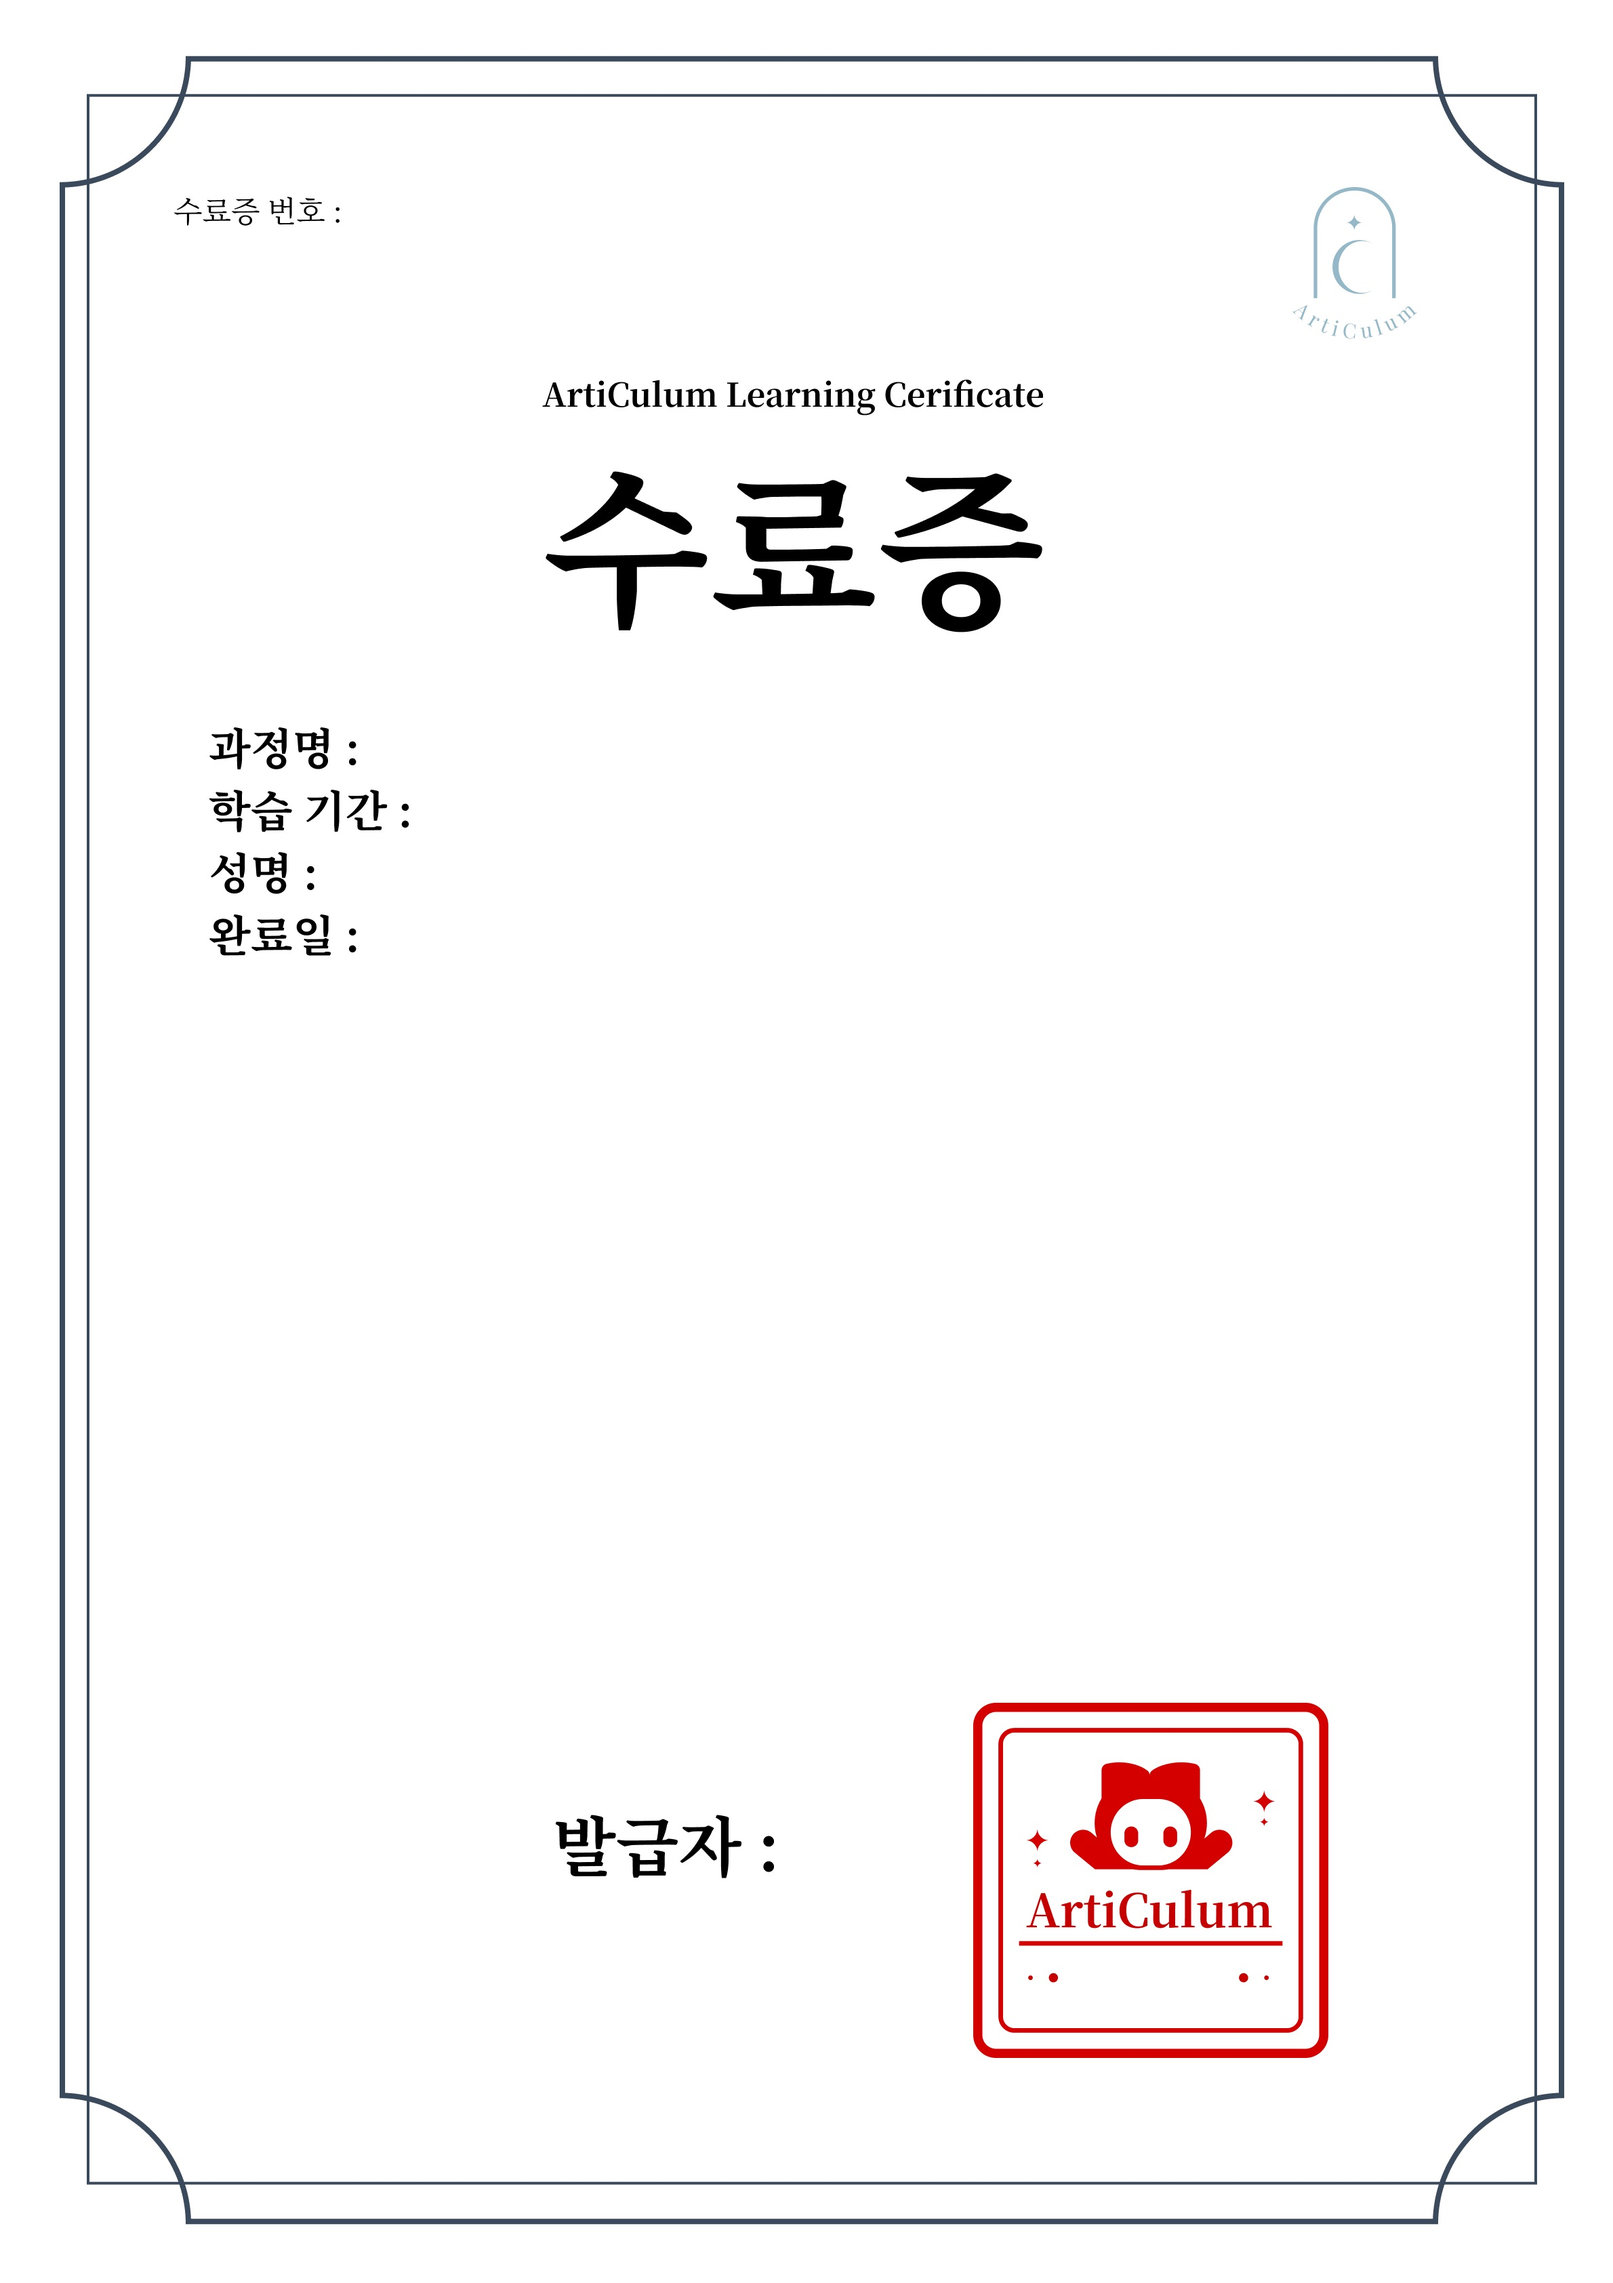
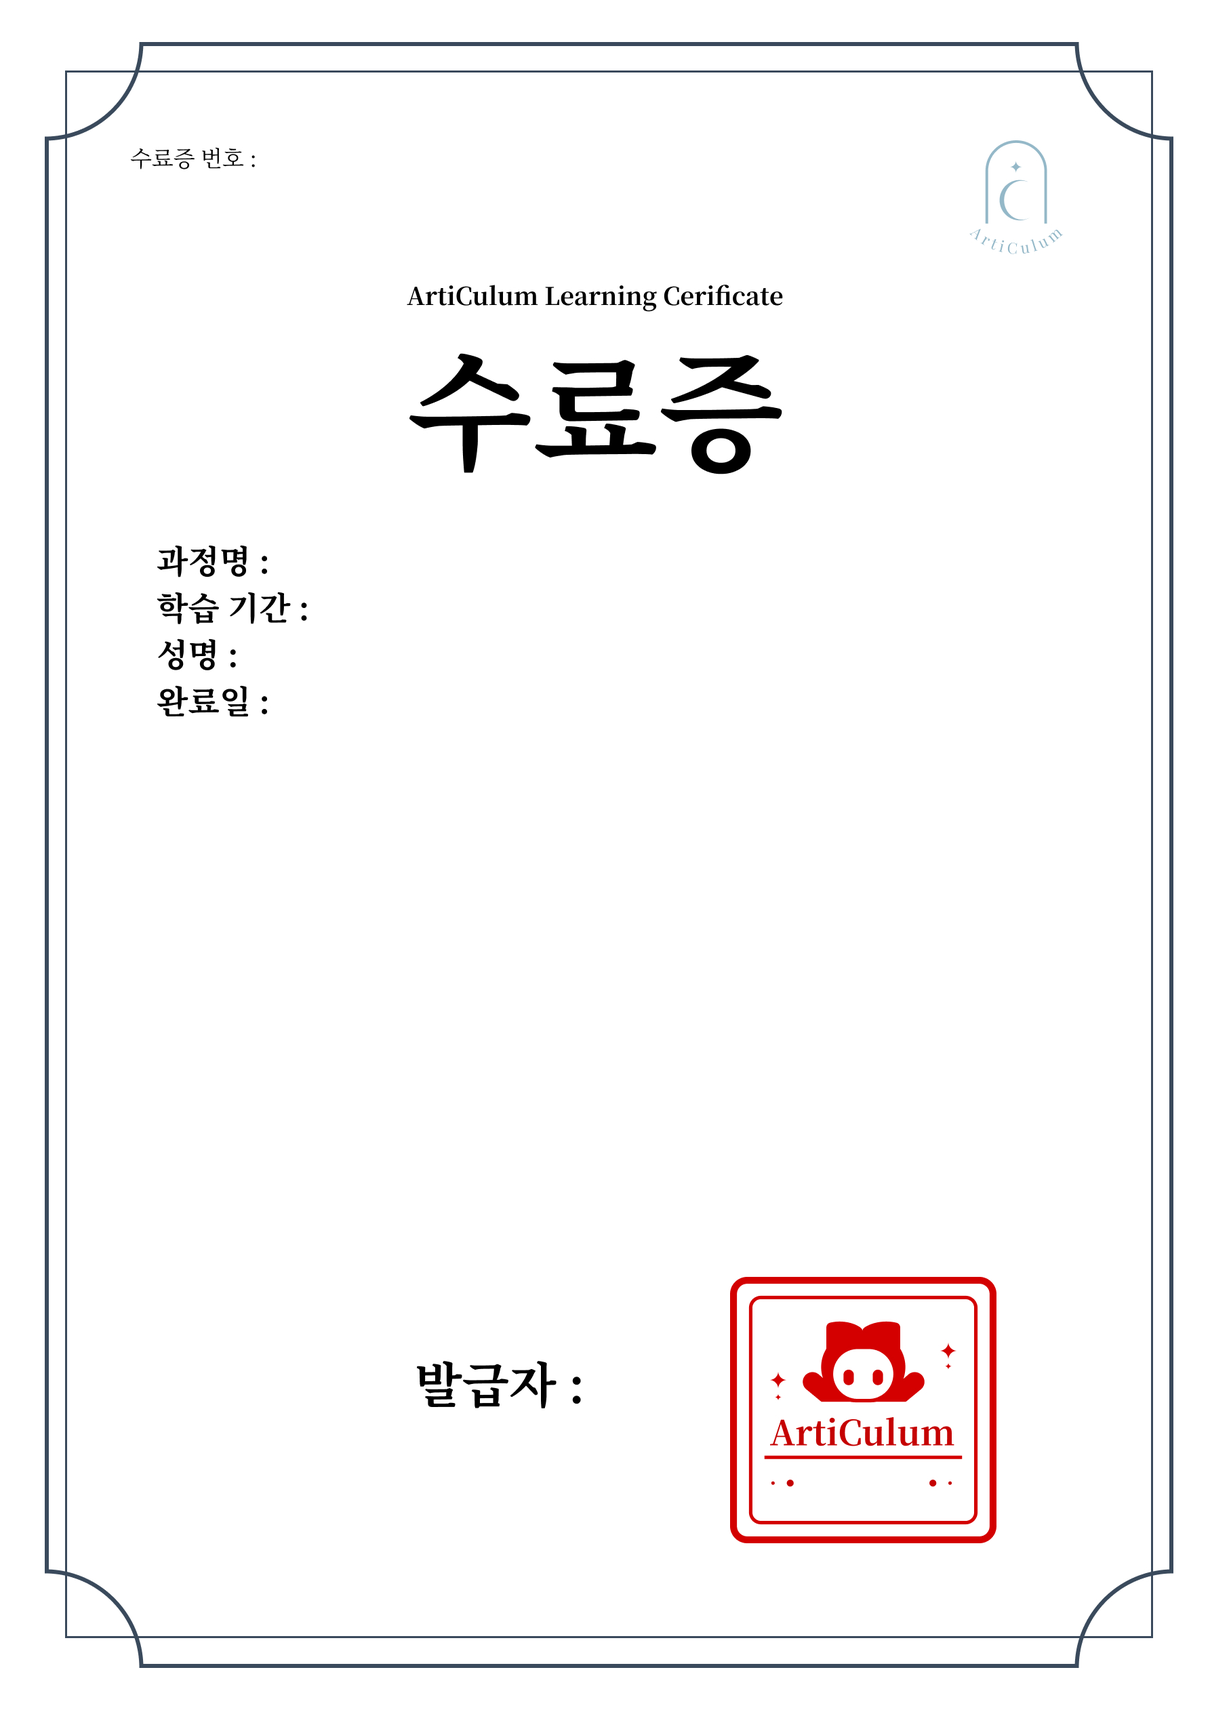
수료증 레이아웃 수정

Changed region(s): [[0.6162, 0.7411, 0.8011, 0.772], [0.8011, 0.772, 0.8319, 0.8955], [0.6162, 0.8337, 0.6471, 0.8646]]

diff --git a/server/app/routers/certificate.py b/server/app/routers/certificate.py
@@ -260,27 +260,40 @@ def _pdf_bytes(
 
     pdf.set_text_color(31, 41, 55)
 
-    pdf.set_font(font, "", 8)
-    pdf.set_xy(20, 20)
+    # 수료증 번호 
+    pdf.set_font(font, "", 10)
+    pdf.set_xy(45, 25)
     pdf.cell(80, 5, cert_no)
+    completed_str = completed_at.strftime("%Y-%m-%d") if completed_at else "-"
+    
+    # 3. 템플릿 좌측 리스트 
+    pdf.set_text_color(0,0,0)
+    pdf.set_font(font, bold_style, 14)
 
-    pdf.set_font(font, bold_style, 28)
-    pdf.set_xy(0, 48)
-    pdf.cell(210, 14, title, align="C")
+    # 과정명
+    pdf.set_xy(50, 94) 
+    pdf.cell(100, 8, curriculum_title)
 
-    pdf.set_font(font, "", 11)
-    pdf.set_text_color(75, 85, 99)
-    pdf.set_xy(0, 66)
-    pdf.cell(210, 8, "ArtiCulum Learning Certificate", align="C")
+    # 학습 기간
+    pdf.set_xy(57, 102) 
+    pdf.cell(100, 8, f"{duration_weeks}주")
 
-    pdf.set_text_color(17, 24, 39)
-    pdf.set_font(font, bold_style, 22)
-    pdf.set_xy(0, 96)
-    pdf.cell(210, 12, learner_name, align="C")
+    # 성명 
+    pdf.set_xy(45, 110.5) 
+    pdf.cell(100, 8, learner_name)
 
-    pdf.set_font(font, "", 12)
-    pdf.set_text_color(55, 65, 81)
-    pdf.set_xy(24, 116)
+    # 완료일
+    pdf.set_xy(50, 118.5) 
+    pdf.cell(100, 8, completed_str)
+
+    # 발급자 ('발급자 :' 글자 우측에 출력)
+    pdf.set_font(font, bold_style, 20)
+    pdf.set_xy(105, 237) 
+    pdf.cell(90, 8, issuer_name)
+
+    pdf.set_font(font, "", 18)
+    pdf.set_text_color(0,0,0)
+    pdf.set_xy(24, 160)
     pdf.multi_cell(
         162,
         8,
@@ -288,31 +301,7 @@ def _pdf_bytes(
         align="C",
     )
 
-    completed_str = completed_at.strftime("%Y-%m-%d") if completed_at else "-"
     issued_str = issued_at.strftime("%Y-%m-%d")
-
-    info_lines = [
-        ("과정명", curriculum_title),
-        ("학습 기간", f"{duration_weeks}주"),
-        ("완료일", completed_str),
-        ("발급일", issued_str),
-        ("발급자", issuer_name),
-    ]
-
-    y = 150
-    pdf.set_font(font, "", 11)
-    for label, value in info_lines:
-        pdf.set_xy(52, y)
-        pdf.set_text_color(75, 85, 99)
-        pdf.cell(30, 8, label)
-        pdf.set_text_color(17, 24, 39)
-        pdf.cell(90, 8, str(value))
-        y += 10
-
-    pdf.set_font(font, bold_style, 18)
-    pdf.set_text_color(31, 41, 55)
-    pdf.set_xy(0, 245)
-    pdf.cell(210, 10, "ArtiCulum", align="C")
 
     out = pdf.output(dest="S")
     return out.encode("latin-1") if isinstance(out, str) else bytes(out)
